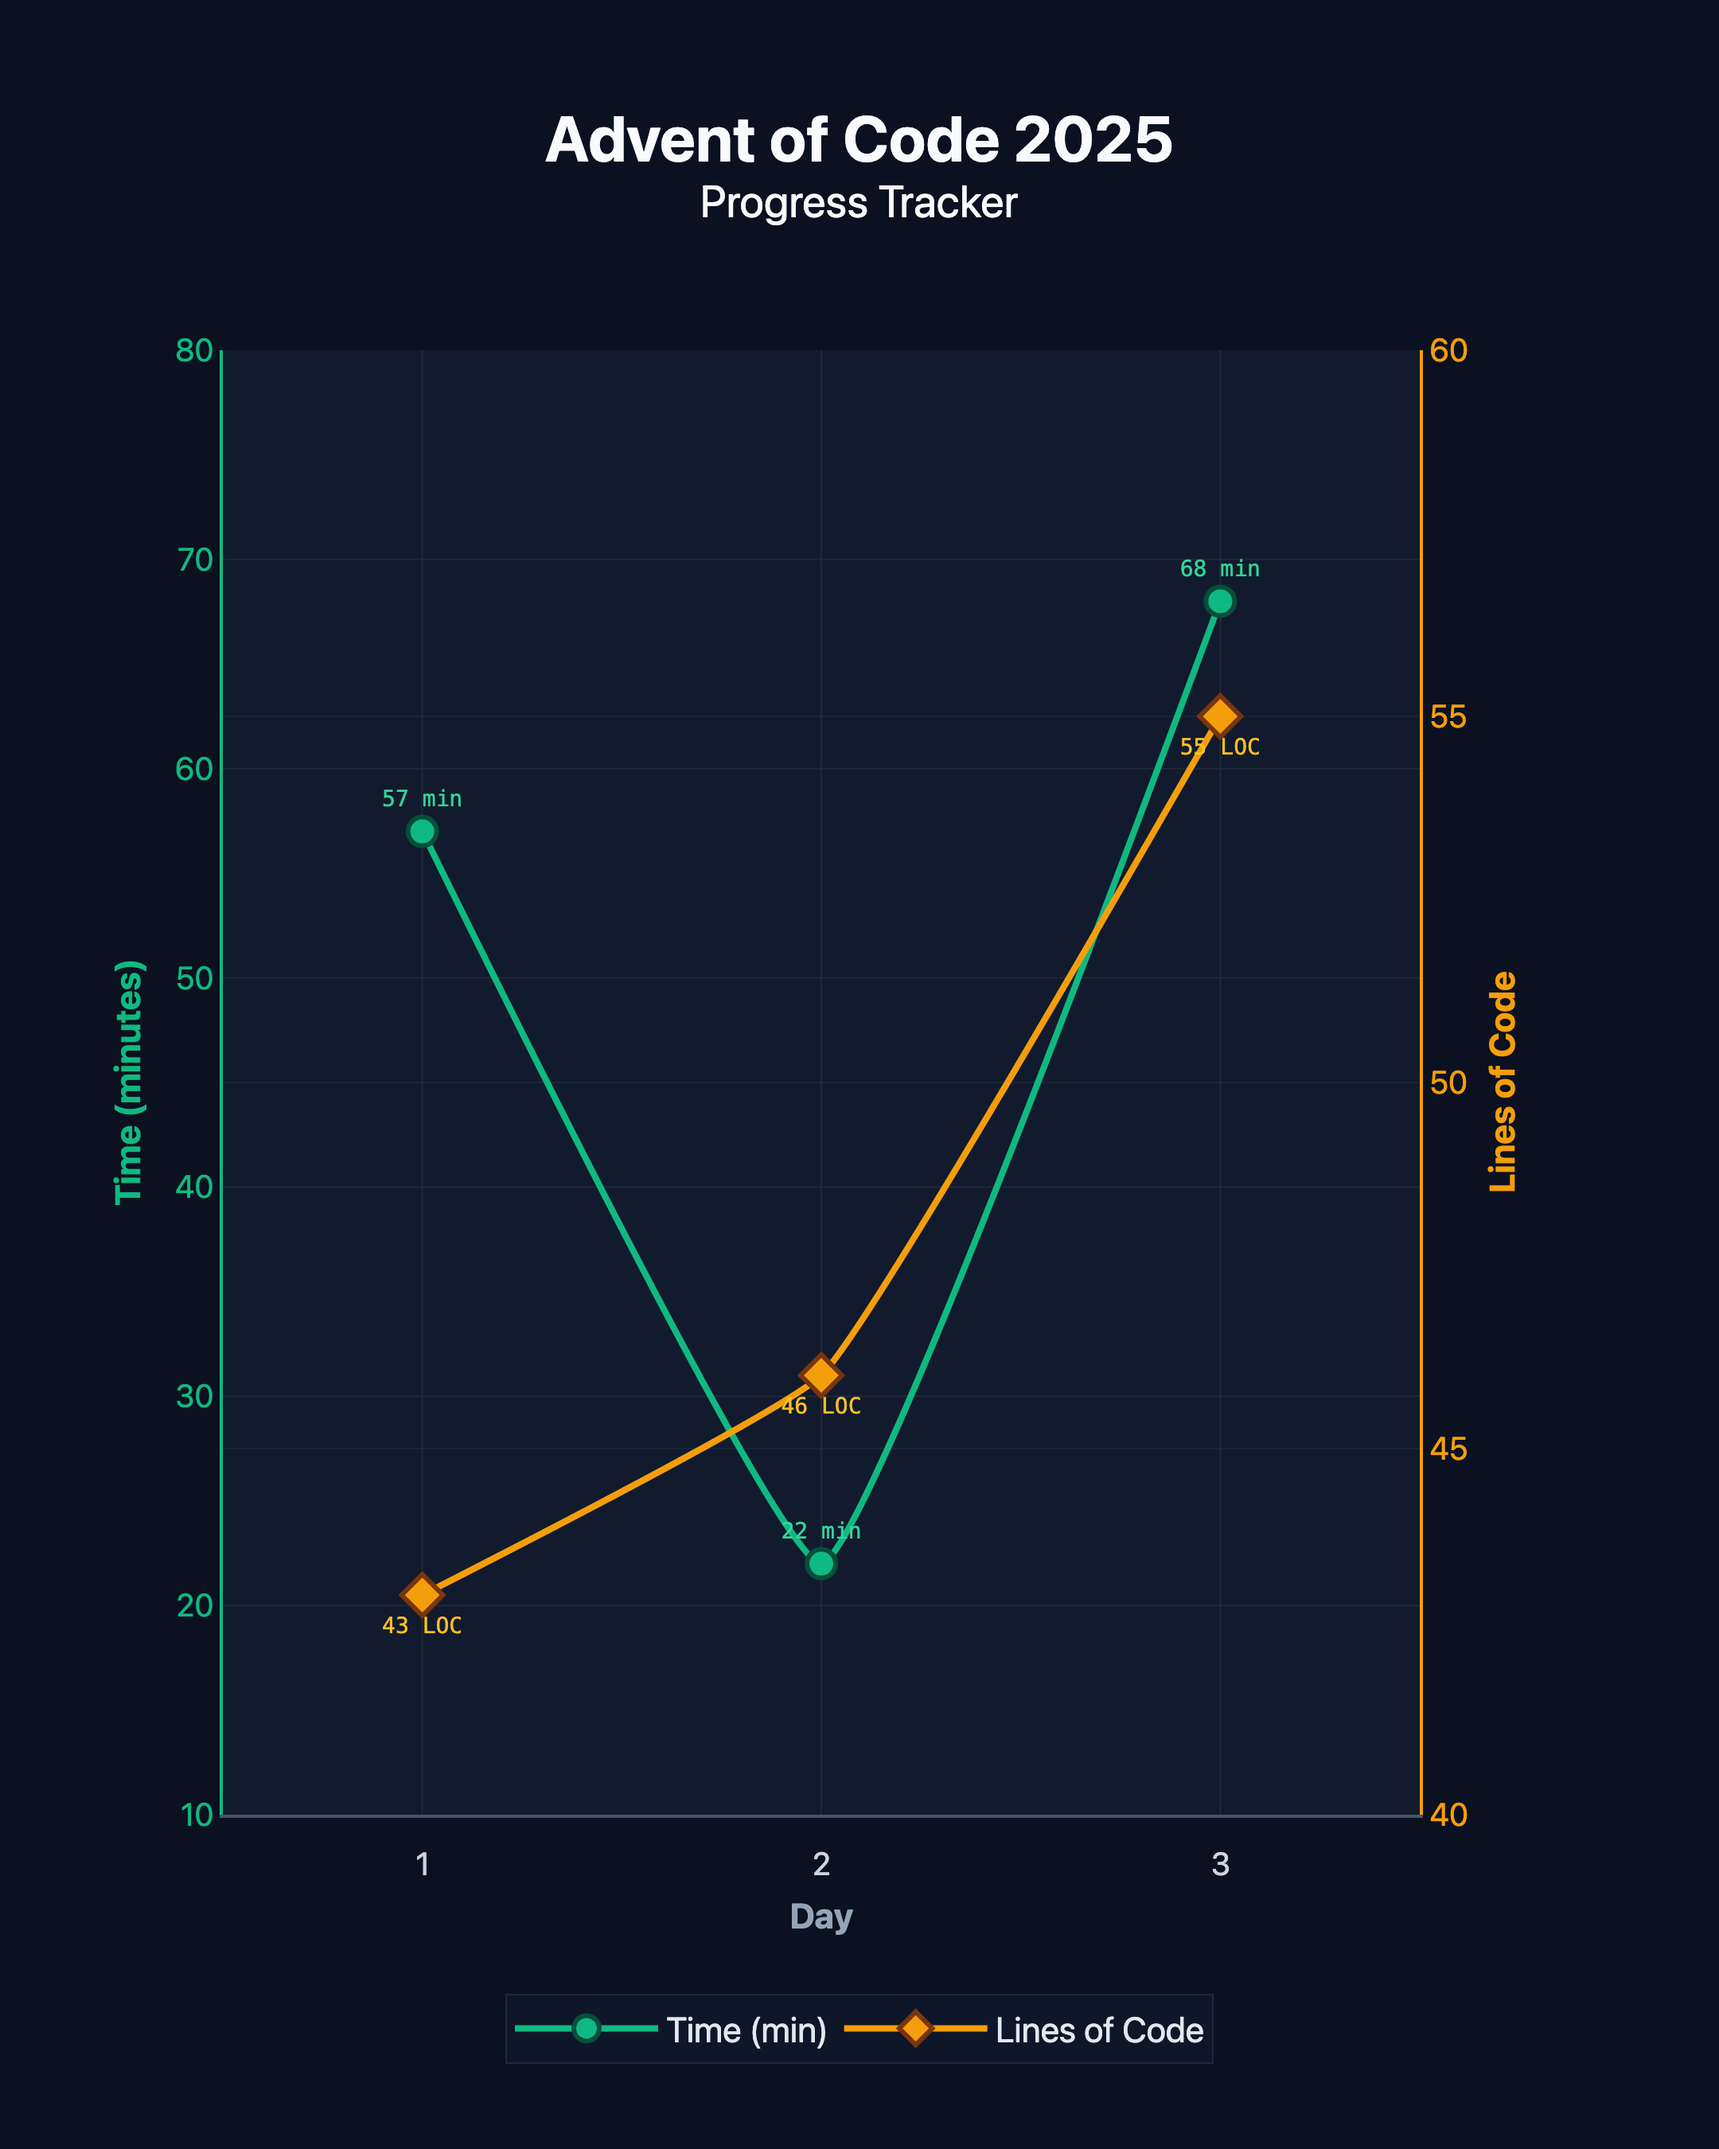
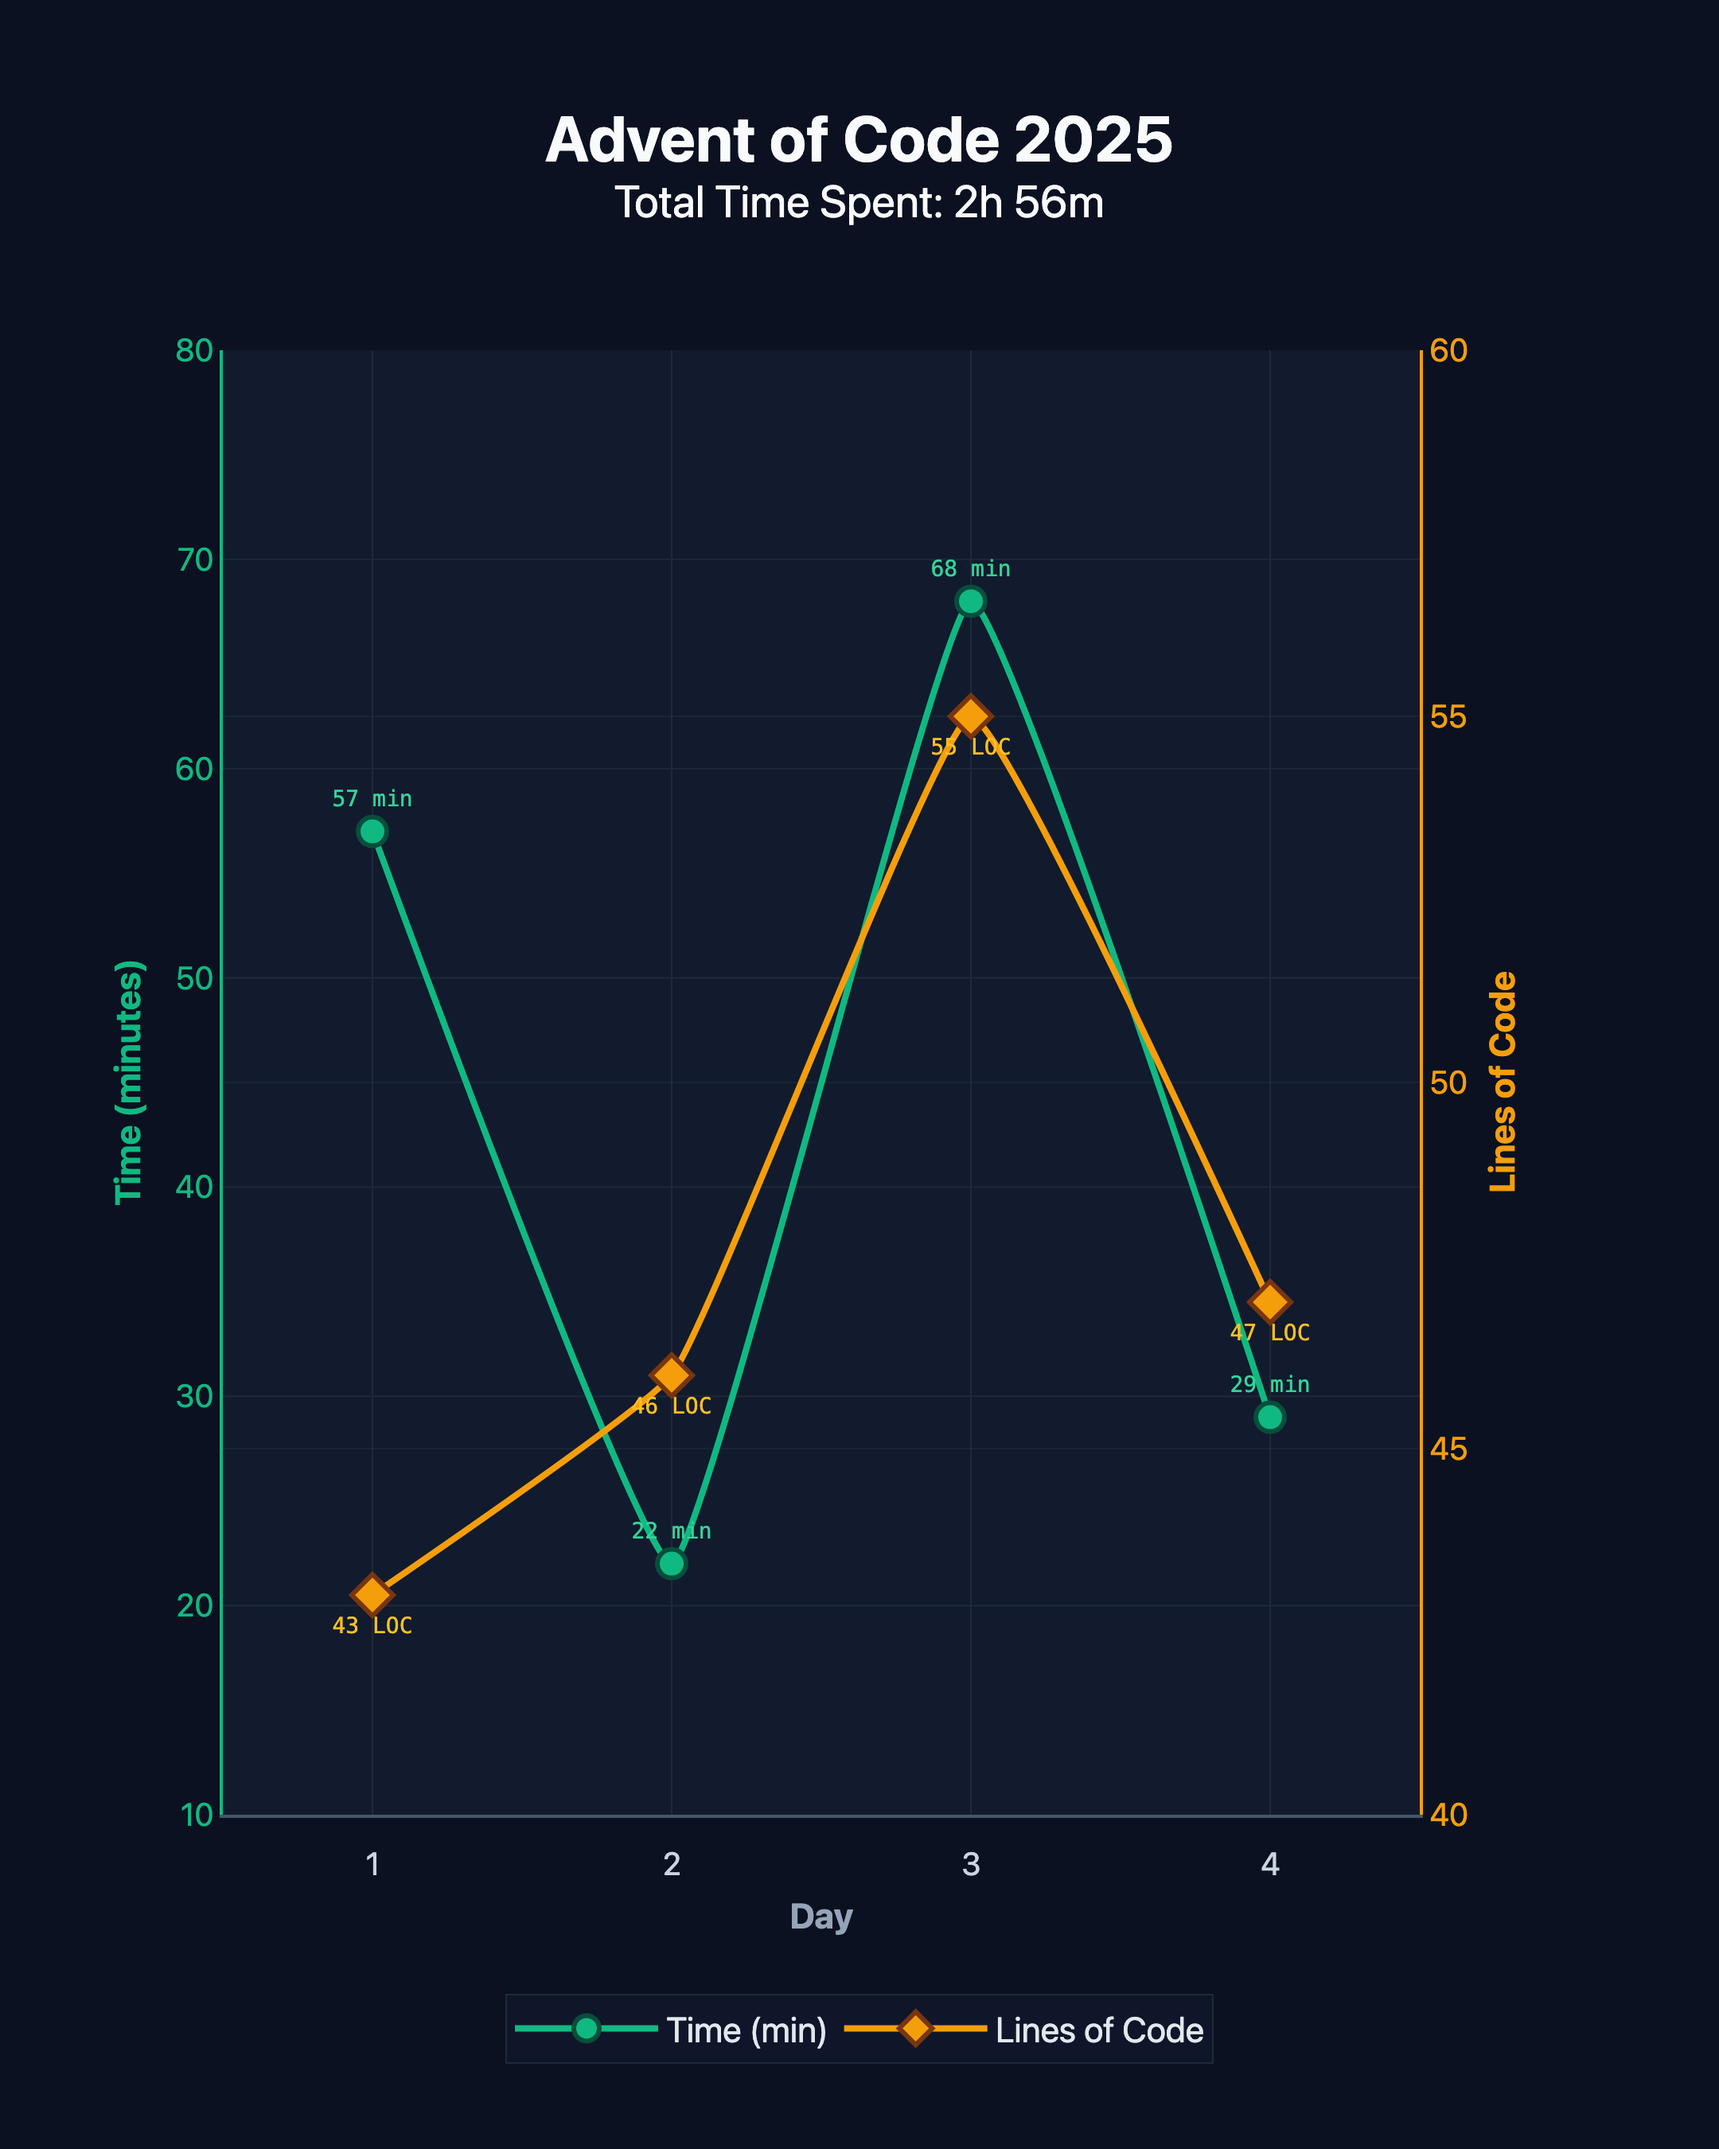
feat: Add day 5 solution and update progress tracking

diff --git a/day5/fresh_food.py b/day5/fresh_food.py
@@ -1,0 +1,72 @@
+from pathlib import Path
+import re
+
+from sortedcontainers import SortedList
+
+# IN_FILE = Path("./demo_input.txt")
+IN_FILE = Path("./full_input.txt")
+
+def part1():
+    fresh_id_ranges = SortedList()
+    n_fresh = 0
+    fresh_ids_pattern = re.compile(r'(\d+)-(\d+)')
+    with IN_FILE.open('r') as f:
+        for fresh_id_range in f:
+            fresh_id_range = fresh_id_range.rstrip('\n')
+
+            # Finished processing all fresh ID ranges
+            if not fresh_id_range:
+                break
+
+            m = fresh_ids_pattern.fullmatch(fresh_id_range)
+            assert m
+            range_start = int(m.group(1))
+            range_end = int(m.group(2))
+
+            start_idx = fresh_id_ranges.bisect_left(range_start)
+            end_idx = fresh_id_ranges.bisect_right(range_end)
+
+            # If `start_idx` is odd, then it falls within an existing range.
+            # So the real `start_idx` is the one before it
+            if start_idx % 2:
+                start_idx -= 1
+                assert start_idx >= 0
+
+                # Update the `range_start` with the new beginning of the range
+                range_start = fresh_id_ranges[start_idx]
+
+            # If `end_idx` is odd, then it also falls within an existing range.
+            # So the real `end_idx` is the one after it. The `bisect_right`
+            # already returns the index of the next item
+            if end_idx % 2:
+                # Update the `range_end` with the new end of the range
+                range_end = fresh_id_ranges[end_idx]
+                
+            # Delete all of the values between the `range_start` and `range_end` inclusively
+            to_delete = list(
+                fresh_id_ranges.irange(range_start, range_end)
+            )
+            for v in to_delete:
+                fresh_id_ranges.remove(v)
+                
+            # Add in the `range_start` and `range_end`
+            fresh_id_ranges.add(range_start)
+            fresh_id_ranges.add(range_end)
+            
+            # There should always be an even number of elements in the `fresh_id_ranges`
+            assert not (len(fresh_id_ranges) % 2)
+
+        # Once the `fresh_id_ranges` is built, then count the number of fresh ingredients
+        for ingredient_id in f:
+            ingredient_id = int(ingredient_id.rstrip('\n'))
+
+            # If the `ingredient_id` is in the `fresh_id_ranges` or the bisect_left
+            # is odd, then it falls within a range
+            if (ingredient_id in fresh_id_ranges or
+                fresh_id_ranges.bisect_left(ingredient_id) % 2):
+                n_fresh += 1
+
+    print(f"Part 1 number of fresh: {n_fresh}")
+
+if __name__ == "__main__":
+    part1()

diff --git a/generate_graph.py b/generate_graph.py
@@ -66,6 +66,14 @@ def generate_graph(data: list[tuple[int, dict]], output_path: Path) -> None:
     days = [d[0] for d in data]
     times = [d[1]["time"] for d in data]
     locs = [d[1]["loc"] for d in data]
+    total_time = sum(times)
+
+    # Format total time as hours + minutes if >= 60 minutes
+    if total_time >= 60:
+        hours, mins = divmod(total_time, 60)
+        total_time_str = f"{hours}h {mins}m" if mins else f"{hours}h"
+    else:
+        total_time_str = f"{total_time}m"
 
     # Create figure with secondary y-axis
     fig = make_subplots(specs=[[{"secondary_y": True}]])
@@ -131,7 +139,7 @@ def generate_graph(data: list[tuple[int, dict]], output_path: Path) -> None:
     # Update layout for mobile/Twitter optimized dark theme
     fig.update_layout(
         title=dict(
-            text="<b>Advent of Code 2025</b><br><sup>Progress Tracker</sup>",
+            text=f"<b>Advent of Code 2025</b><br><sup>Total Time Spent: {total_time_str}</sup>",
             font=dict(size=40, color="#f8fafc", family="system-ui, sans-serif"),
             x=0.5,
             xanchor="center",

diff --git a/.opencode/command/tweet.md b/.opencode/command/tweet.md
@@ -13,20 +13,23 @@ Read the solution code in day$1/ to identify the core algorithm or approach used
 
 Write a single tweet (under 280 chars) that:
 - Mentions it's AoC 2025 Day $1
-- Has a brief, punchy tagline about the algorithm/approach (e.g. "brute force wins again", "modular arithmetic gone wrong", "regex to the rescue")
-- Includes time and LOC stats naturally
-- Ends with the solution link: https://github.com/DamianB-BitFlipper/advent-of-code-2025/tree/main/day$1
+- Uses a casual, first-person tone reflecting your actual experience from REMARKS.md (e.g., "was pretty easy", "this one took a while", "honestly expected worse")
+- Briefly names the general approach in plain language (e.g., "grid sweeps", "string parsing", "BFS") without overexplaining
+- References how this day compared to previous days if mentioned in remarks
+- Includes time and LOC stats naturally at the end
+- Ends with the solution link on its own line: https://github.com/DamianB-BitFlipper/advent-of-code-2025/tree/main/day$1
 
 Do NOT:
 - Use hashtags
 - Sound enthusiastic or salesy
 - Use words like "excited", "amazing", "journey", "dive in"
 - Use emojis
+- Use algorithmic jargon or overly technical taglines
 
 Before outputting the final tweet, reason through:
-1. What are the key technical highlights worth mentioning?
-2. What tone/angle works best for this particular day's challenge?
-3. Draft 2-3 tweet variations with different angles or phrasings
-4. Evaluate each variation for character count, clarity, and engagement
+1. What was the author's actual experience/feeling from REMARKS.md?
+2. How did this day compare to previous days (if mentioned)?
+3. Draft 2-3 tweet variations with different casual phrasings
+4. Evaluate each variation for character count and natural tone
 
 Finally, output the best tweet clearly labeled as "Suggested tweet:" followed by just the tweet text.

diff --git a/day3/REMARKS.md b/day3/REMARKS.md
@@ -5,4 +5,3 @@ loc: 55
 # Remarks
 
 This problem was really tricky. The first case with only two batteries was quite trivial to implement with two nested for loops. However for 12 batteries, rather than having 12 nested loops, which may have been too computationally slow, I had to implement a linearized stack for backtracking. I really had to stop and think on this problem! Would make for a great interview question/brainteaser. 
-
